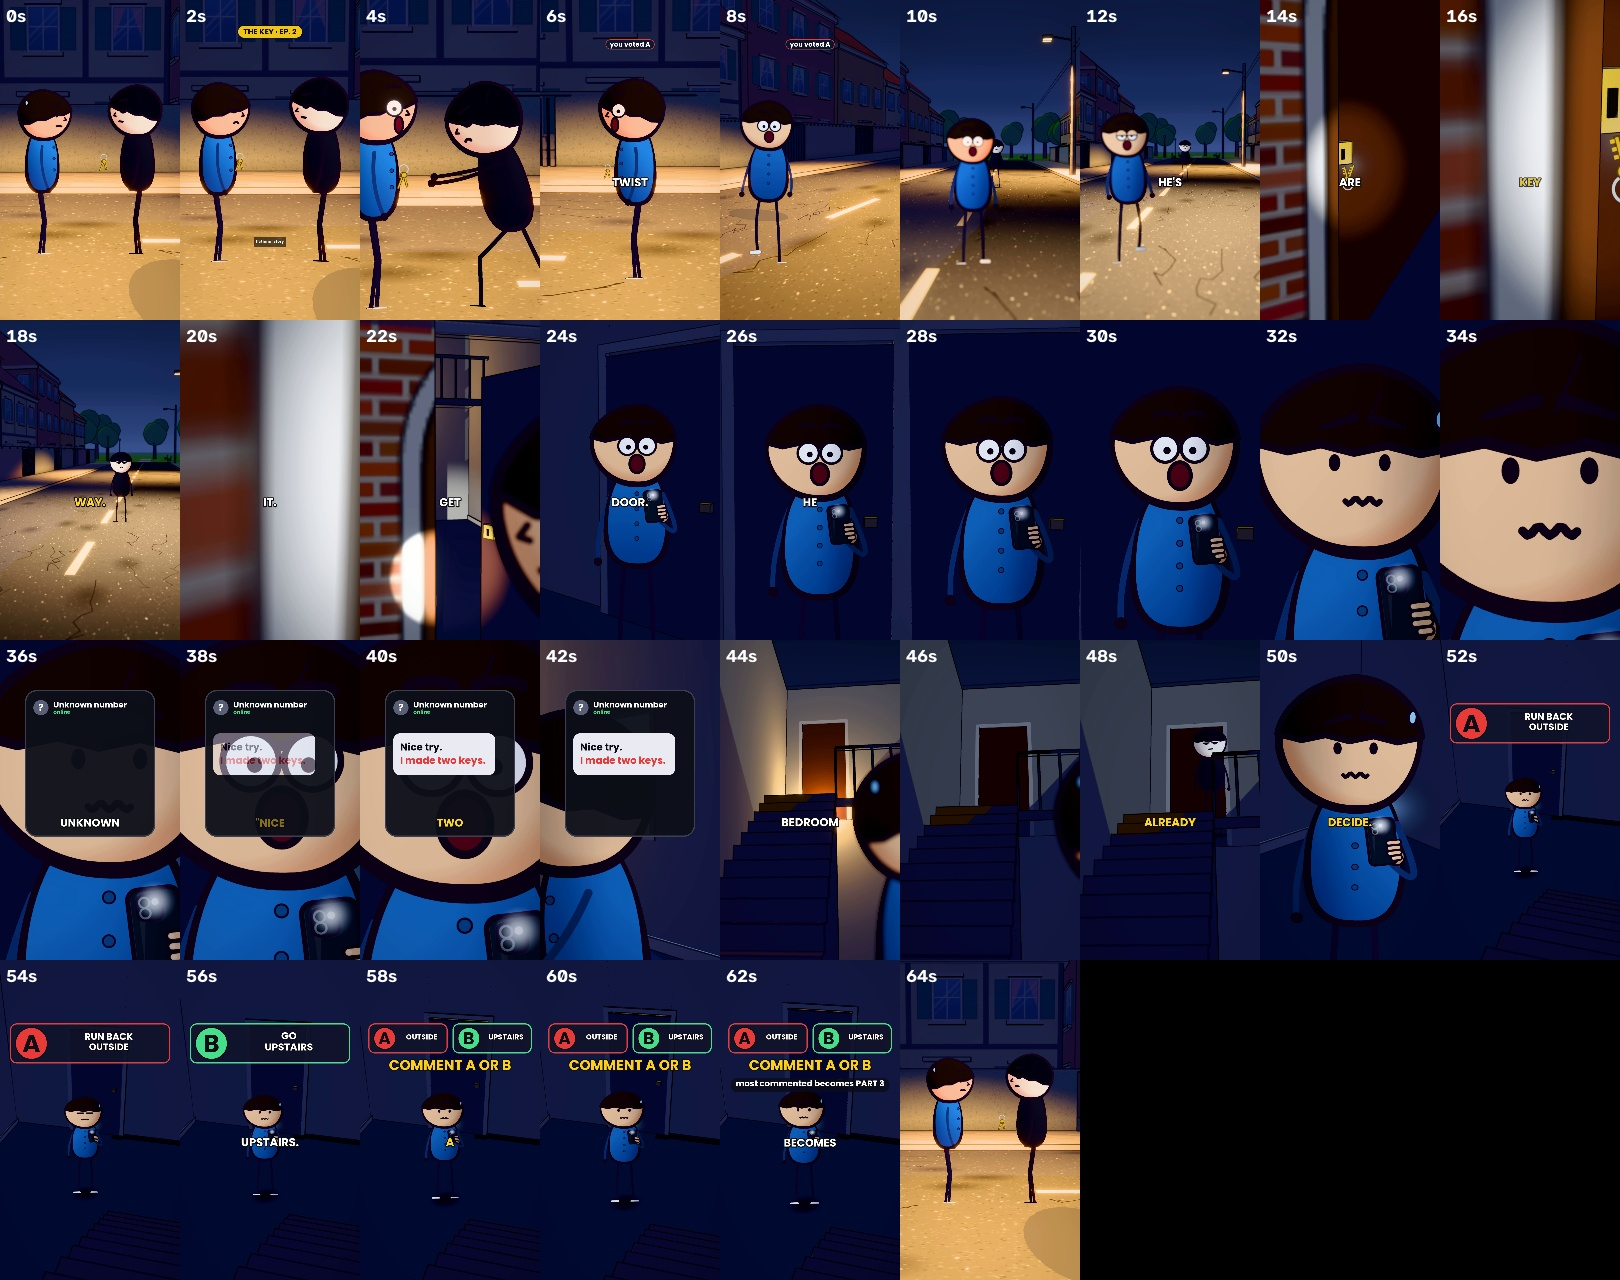
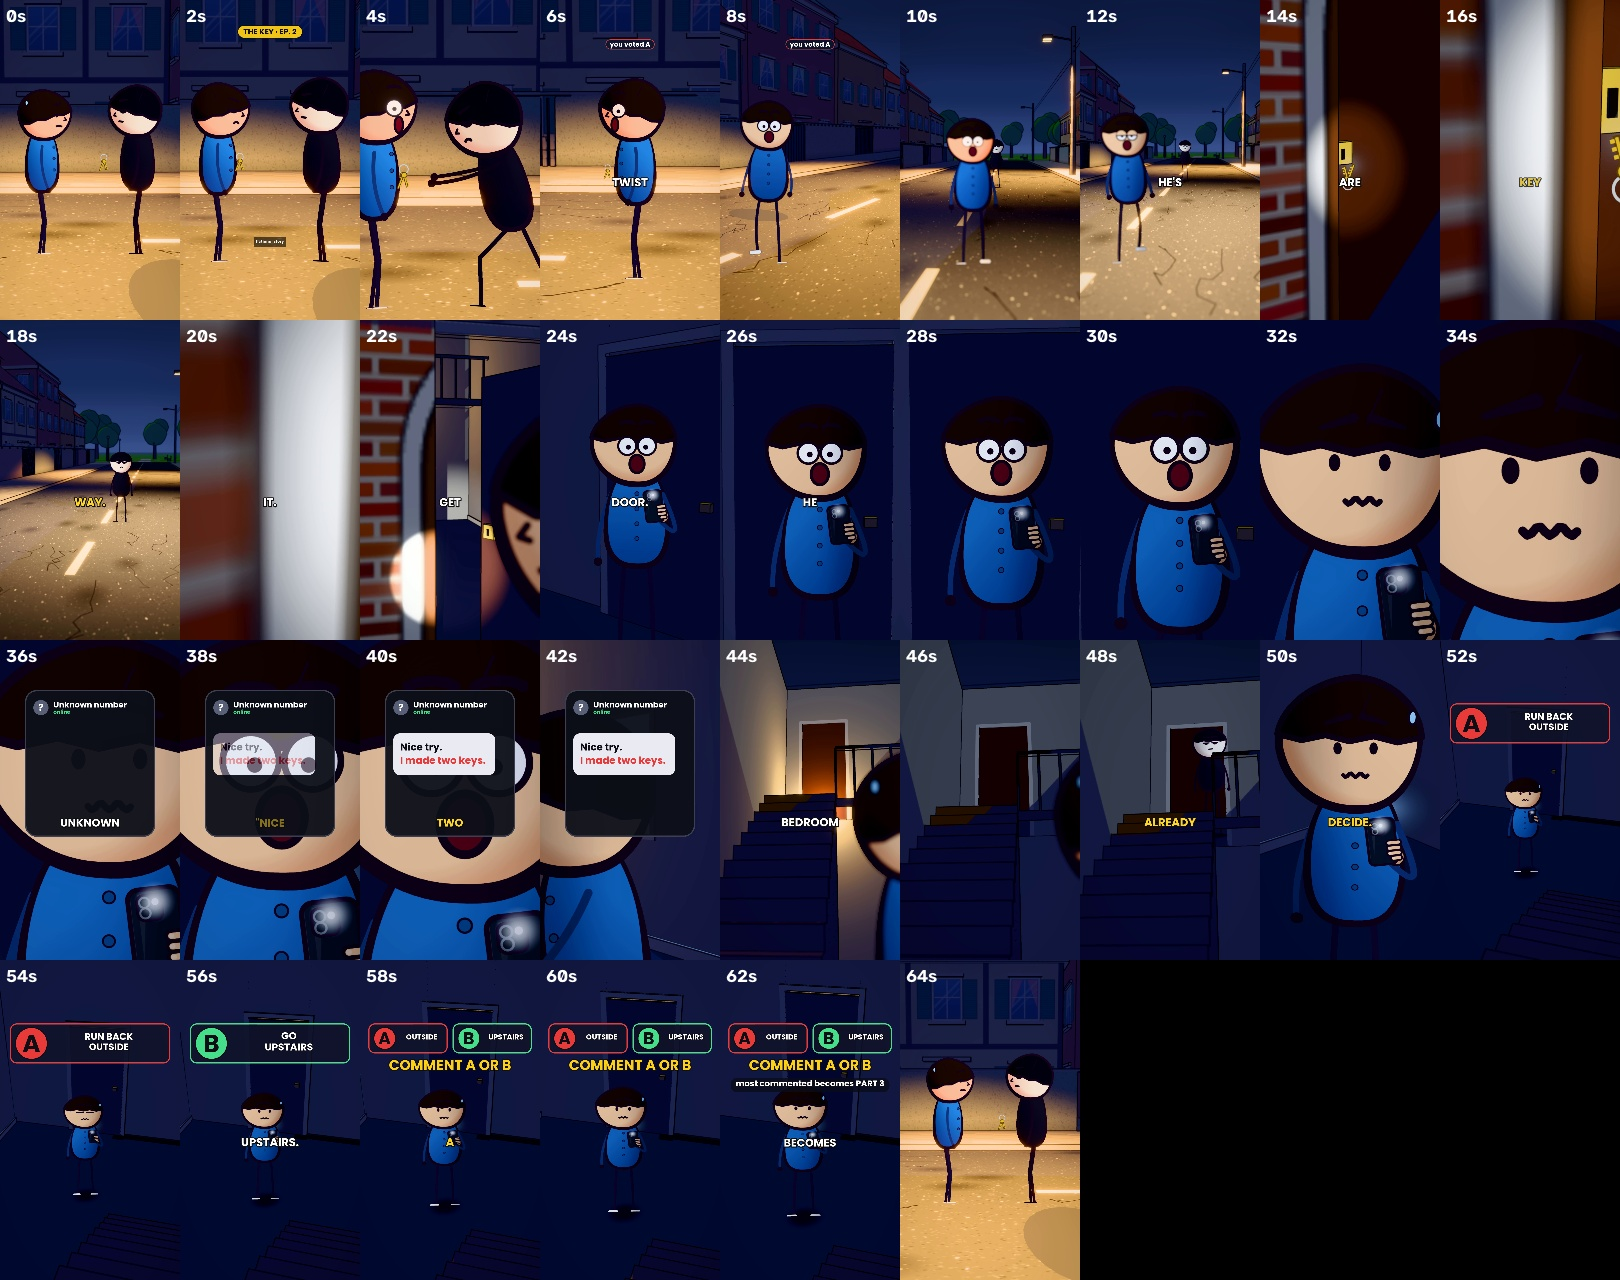
V122 v3: câmera contínua entregue — QC 15/15, só o corte do loop, capa nova do quadro de 12 s
Claude-Session: https://claude.ai/code/session_01Adyz318NBz57nGHwGc8mF6

diff --git a/projeto_videos3d/v2/ep122/capa.py b/projeto_videos3d/v2/ep122/capa.py
@@ -1,0 +1,20 @@
+# Capa do V122 (v3): quadro do próprio vídeo + textos Poppins (identidade da série).
+import glob, sys
+from PIL import Image, ImageDraw, ImageFont
+F = int(sys.argv[1]) if len(sys.argv) > 1 else 360
+m = {int(p.split('/')[-1][:4]): p for p in glob.glob('v2/ep122/frames/*/*.jpg')}
+im = Image.open(m[F]).convert('RGB'); d = ImageDraw.Draw(im)
+font = lambda s: ImageFont.truetype('fonts/Poppins-Bold.ttf', s)
+INK, Y, W = (26, 18, 30), (255, 214, 10), (255, 255, 255)
+def centered(txt, y, size, fill):
+    f = font(size); w = d.textlength(txt, font=f)
+    d.text(((1080 - w) / 2, y), txt, font=f, fill=fill, stroke_width=max(6, size // 14), stroke_fill=INK)
+# selo do episódio
+f = font(46); t = "THE KEY · EP. 2"; w = d.textlength(t, font=f)
+d.rounded_rectangle(((1080 - w) / 2 - 34, 96, (1080 + w) / 2 + 34, 166), radius=35, fill=Y, outline=INK, width=4)
+d.text(((1080 - w) / 2, 101), t, font=f, fill=INK)
+centered("RUN.", 1350, 128, W)
+centered("HE'S", 1500, 150, Y)
+centered("CHASING YOU", 1665, 134, Y)
+im.save('thumbnails/122_the_key_ep2_cover.jpg', quality=93)
+print('capa do quadro', F, m[F])

diff --git a/projeto_videos3d/v2/ep122/LIMITACOES.md b/projeto_videos3d/v2/ep122/LIMITACOES.md
@@ -16,4 +16,20 @@
   - perto de 7 s, um poste em primeiro plano cruza a câmera por cerca de 4 quadros (cena, não erro);
   - 44,8 s é a luz embaixo da porta apagando (roteiro).
 - **QC:** 15/15. −14,1 LUFS, pico −1,8 dBTP, correlação da narração 0,931, 0 trechos congelados ou pretos, emenda do loop 0,1/255 nos quadros (0,8/255 no MP4).
-- **Capa:** quadro de 10,0 s (a perseguição), "RUN. HE'S CHASING YOU" (`thumbnails/122_the_key_ep2_cover.jpg`).
+- **Capa (v2):** quadro de 10,0 s, guardada em `thumbnails/122_the_key_ep2_cover_v2.jpg`.
+
+## v3: câmera contínua (2026-11-28; padrão ESTILO §10)
+- **Pedido:** a câmera não seguia para a cena seguinte (13 cortes). Agora é uma câmera só do quadro 0 ao fim: a spline `TRAVEL2` (Hermite com tempo) atravessa a rua, entra pela porta real da casa e sobe a escada. O único corte é o do loop (63,93 s), medido com `select=gt(scene,0.3)` no MP4.
+- **Cenário ligado:** o corredor foi encaixado atrás da fachada da casa (`HALL`), e a porta da fachada é a porta do corredor. Personagens e luzes seguem o tempo do vídeo, não o plano.
+- **Simulação antes do render** (`simcam.py`): sem colisão com parede, porta, degraus ou personagens; giro máximo 5,9°/quadro na entrada pela porta (ação), 4,5°/quadro na escada.
+- **Corrigido depois do 1º render v3:**
+  - 49,0–50,2 s mostrava uma parede vazia na fala "You decide". Agora a câmera contorna você e sobe a escada de costas, olhando para você. Quadros 1356–1916 refeitos.
+  - QC reprovado por 2 congelamentos no plano final (51,4 s e 63,2 s). Agora há uma aproximação lenta até o fim. Quadros 1523–1916 refeitos.
+- **Varredura dos 1950 quadros:** nenhum vazio ou lavado (desvio < 3). Maiores mudanças entre quadros, todas de movimento real:
+  - giro rápido para olhar para ele (17,5–18,7 s);
+  - porta passando na frente (22,4 s);
+  - troca do desenho de frente para o de lado (41,5 s).
+- **Limitações:** dentro do corredor estreito você aparece em close, sem caber de corpo inteiro. A troca de desenho frente/lado é um salto de 1 quadro, característica do sistema de sprites.
+- **QC v3:** 15/15. −14,1 LUFS, pico −1,8 dBTP, correlação da narração 0,931, 0 trechos congelados ou pretos, emenda do loop 0,17/255 nos quadros. Áudio e legenda iguais ao v2.
+- **Versões:** quadros v2 em `frames_v2_backup/`, MP4 v2 em `out/122_the_key_ep2_v2_1080x1920.mp4` (fora do git).
+- **Capa v3:** quadro de 12,0 s, você na frente e ele atrás, "RUN. HE'S CHASING YOU" (`thumbnails/122_the_key_ep2_cover.jpg`, script `v2/ep122/capa.py`).

diff --git a/projeto_videos3d/CHANGELOG.md b/projeto_videos3d/CHANGELOG.md
@@ -5,6 +5,12 @@
 - `scripts/add_narration.py`: MP3 → MP4 com legenda sincronizada, ducking e −14 LUFS.
 - Para recuperar: `git checkout be24c75 -- projeto_videos3d` (a tag não pôde ser enviada ao GitHub: o acesso desta sessão só permite o branch de trabalho).
 
+## v0.26: vídeo 122 v3, câmera contínua (2026-11-28)
+- `Chave2Short` refeito com uma câmera só (spline `TRAVEL2`) que atravessa a rua, entra pela porta real e sobe a escada. O corredor foi encaixado atrás da fachada, e personagens e luzes seguem o tempo do vídeo. Único corte: o loop.
+- Escada sem parede vazia e plano final sem congelar. 1950 quadros nativos 1080x1920 varridos. QC 15/15.
+- Novo padrão para todos os projetos: `v2/ESTILO.md` §10 e `CLAUDE.md` na raiz.
+- v2 recuperável: `v2/ep122/frames_v2_backup/`, `out/122_the_key_ep2_v2_1080x1920.mp4`, `thumbnails/122_the_key_ep2_cover_v2.jpg`. Detalhes em `v2/ep122/LIMITACOES.md`.
+
 ## v0.25: vídeo 122 "The Key · Ep. 2" (continuação pela opção A, canal You Decide 3D) (2026-11-27)
 - Nova composição `Chave2Short` (`teste_xavier/src/videos/chave2/`): agarrão e arranco da chave, perseguição na rua, fechadura, porta batendo, interior da casa, celular, escada com a luz do quarto apagando.
 - Narração em inglês com a mesma voz do Ep. 1 (`narracao/122_vozes/`). Efeitos novos de IA em `assets/sfx_ia/` (ver `CREDITOS.md`).
